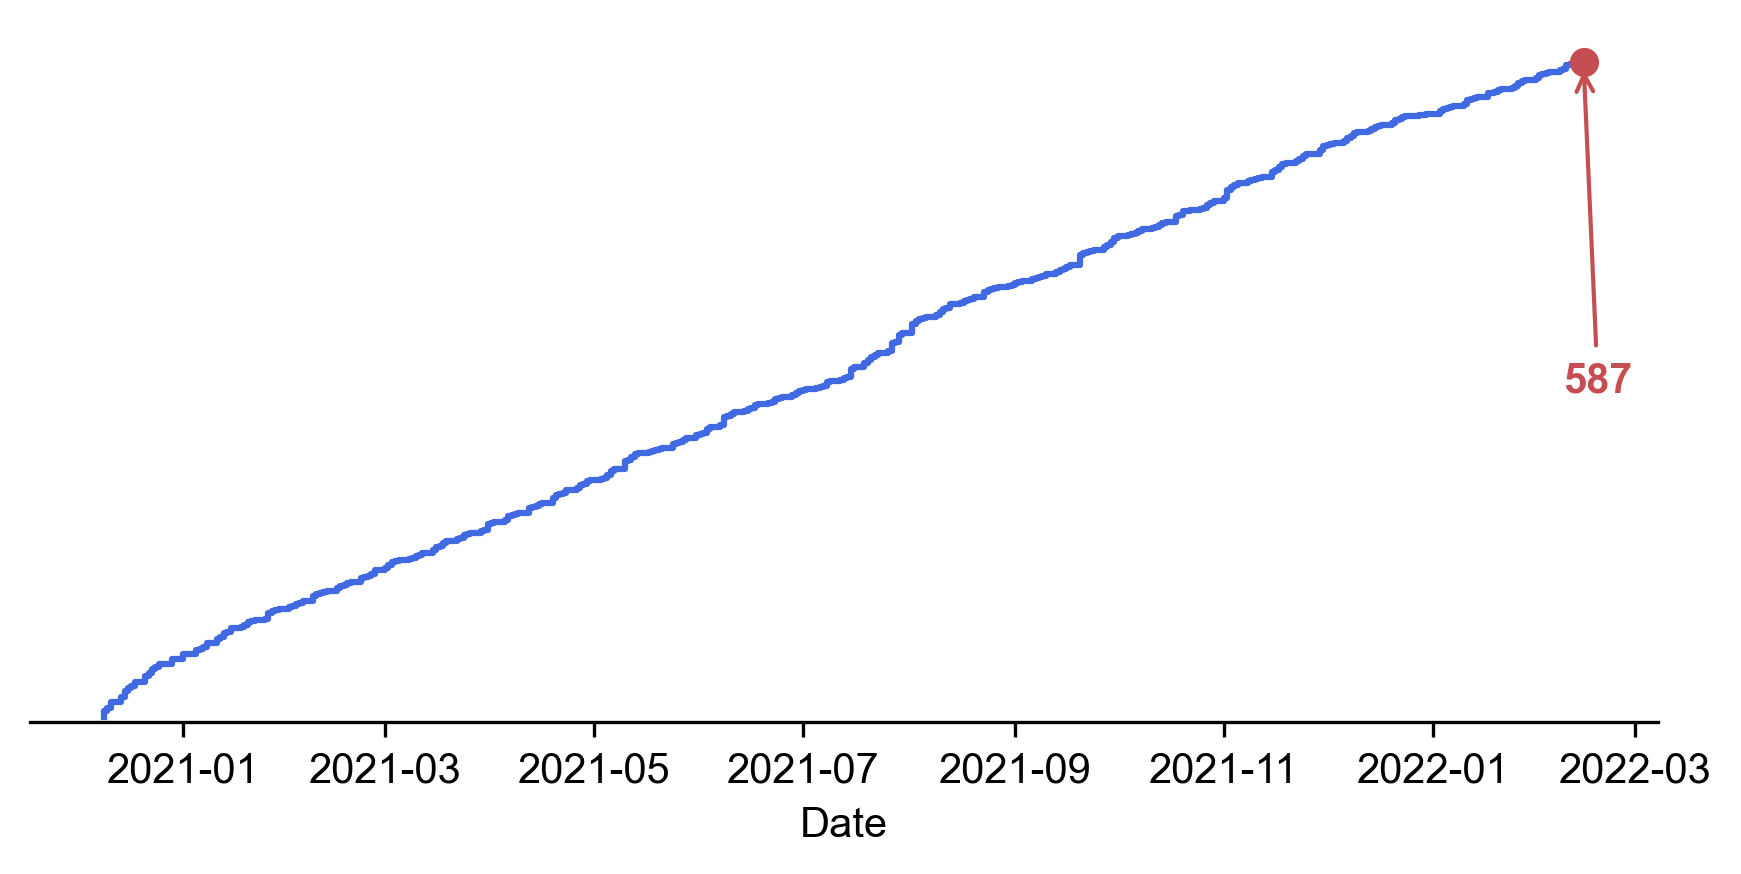
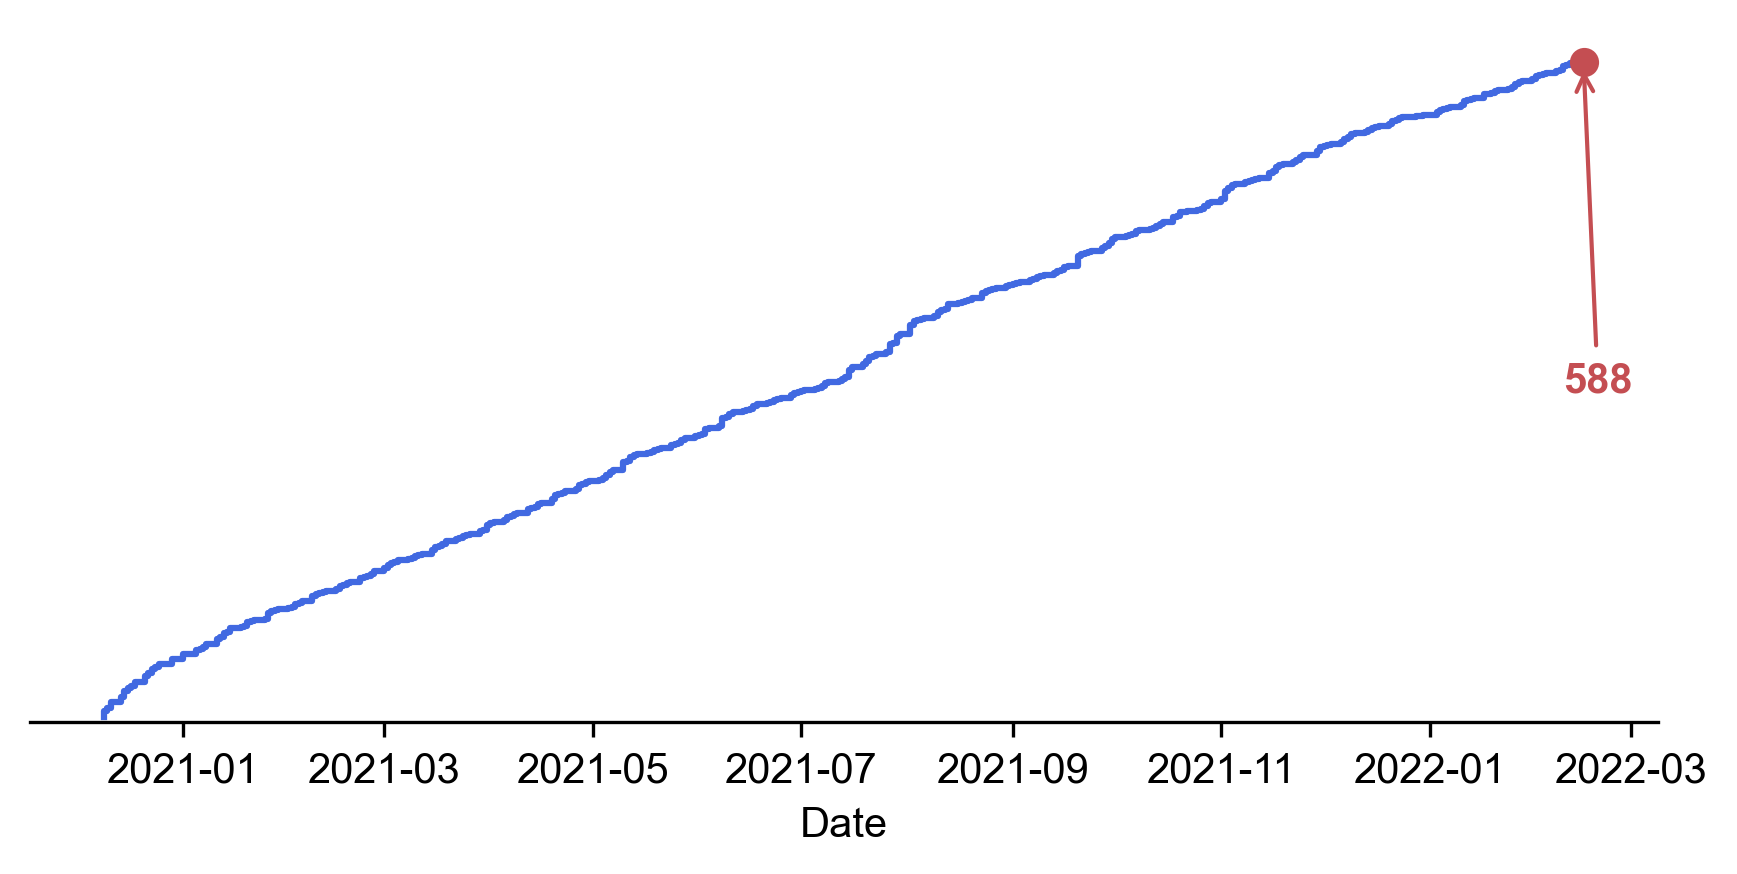
2022-02-15

diff --git a/2022/02/AstroPH-2022-02.md b/2022/02/AstroPH-2022-02.md
@@ -140,3 +140,13 @@
 
 ## 2022-02-15
 
+1. [Cosmic Kite: Auto-encoding the Cosmic Microwave Background](https://arxiv.org/abs/2202.05853)
+
+   > Cosmology, Machine Learning, VAE
+
+   用`CAMB`计算产生随机宇宙学功率谱数据集，用`编码器-解码器`来找宇宙学参数，解码器部分是从宇宙学参数计算功率谱的模型。结果表明编码器能够估计宇宙学参数，精度与传统方法差不多，但是精度很高，代码在[这里](https://github.com/Martindelosrios/cosmic-kite)。
+
+## 2022-02-16
+
+
+
